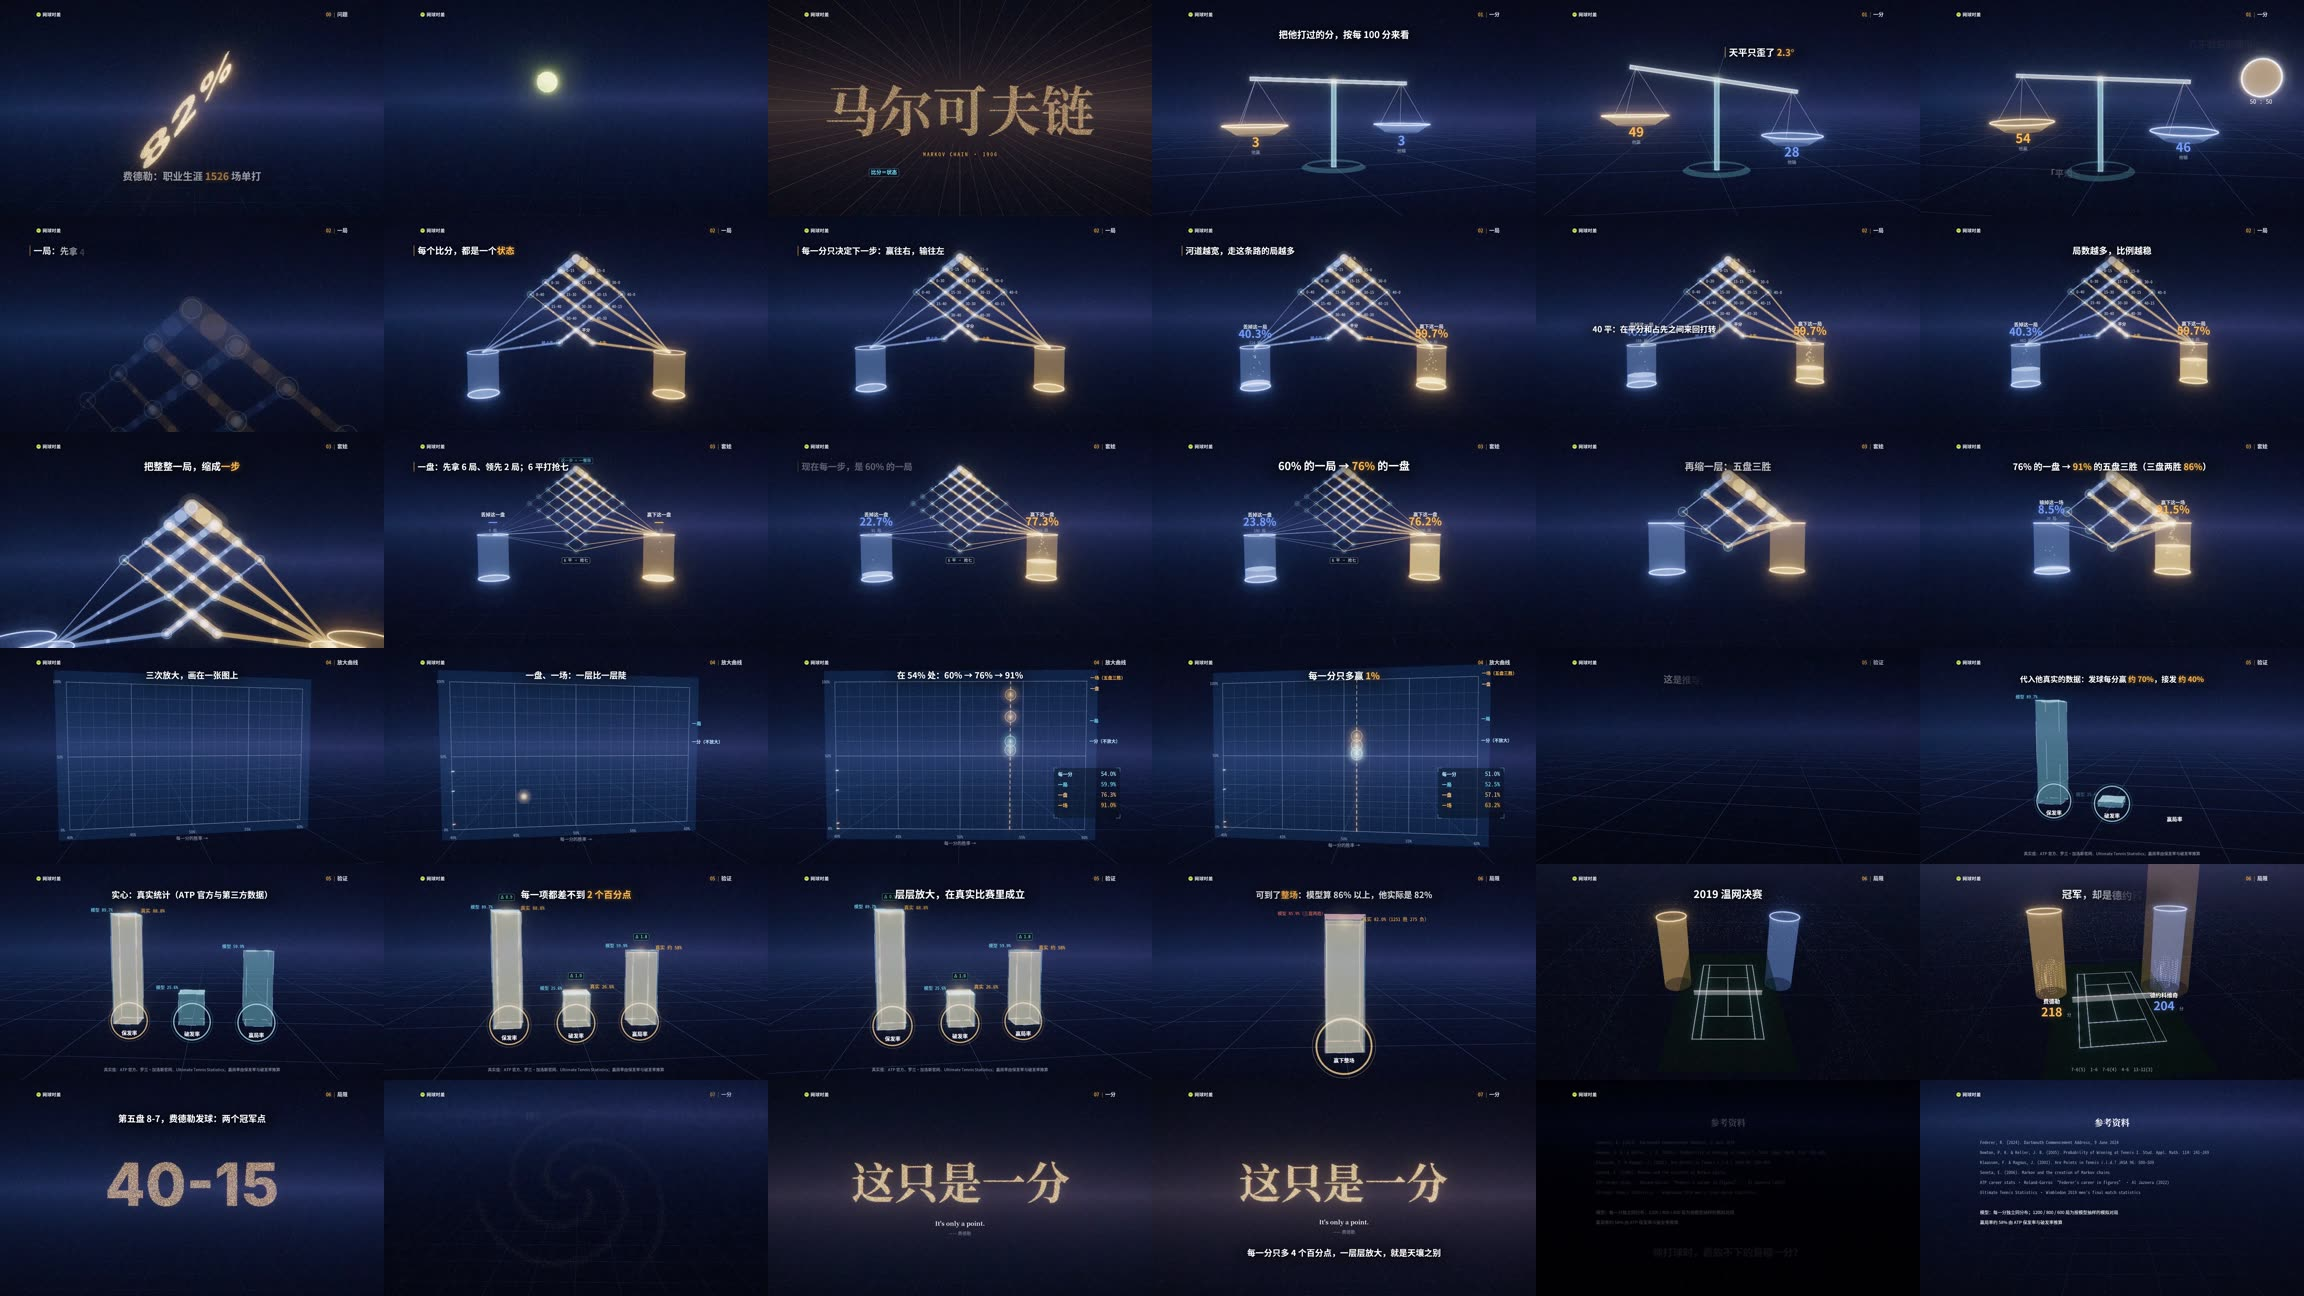
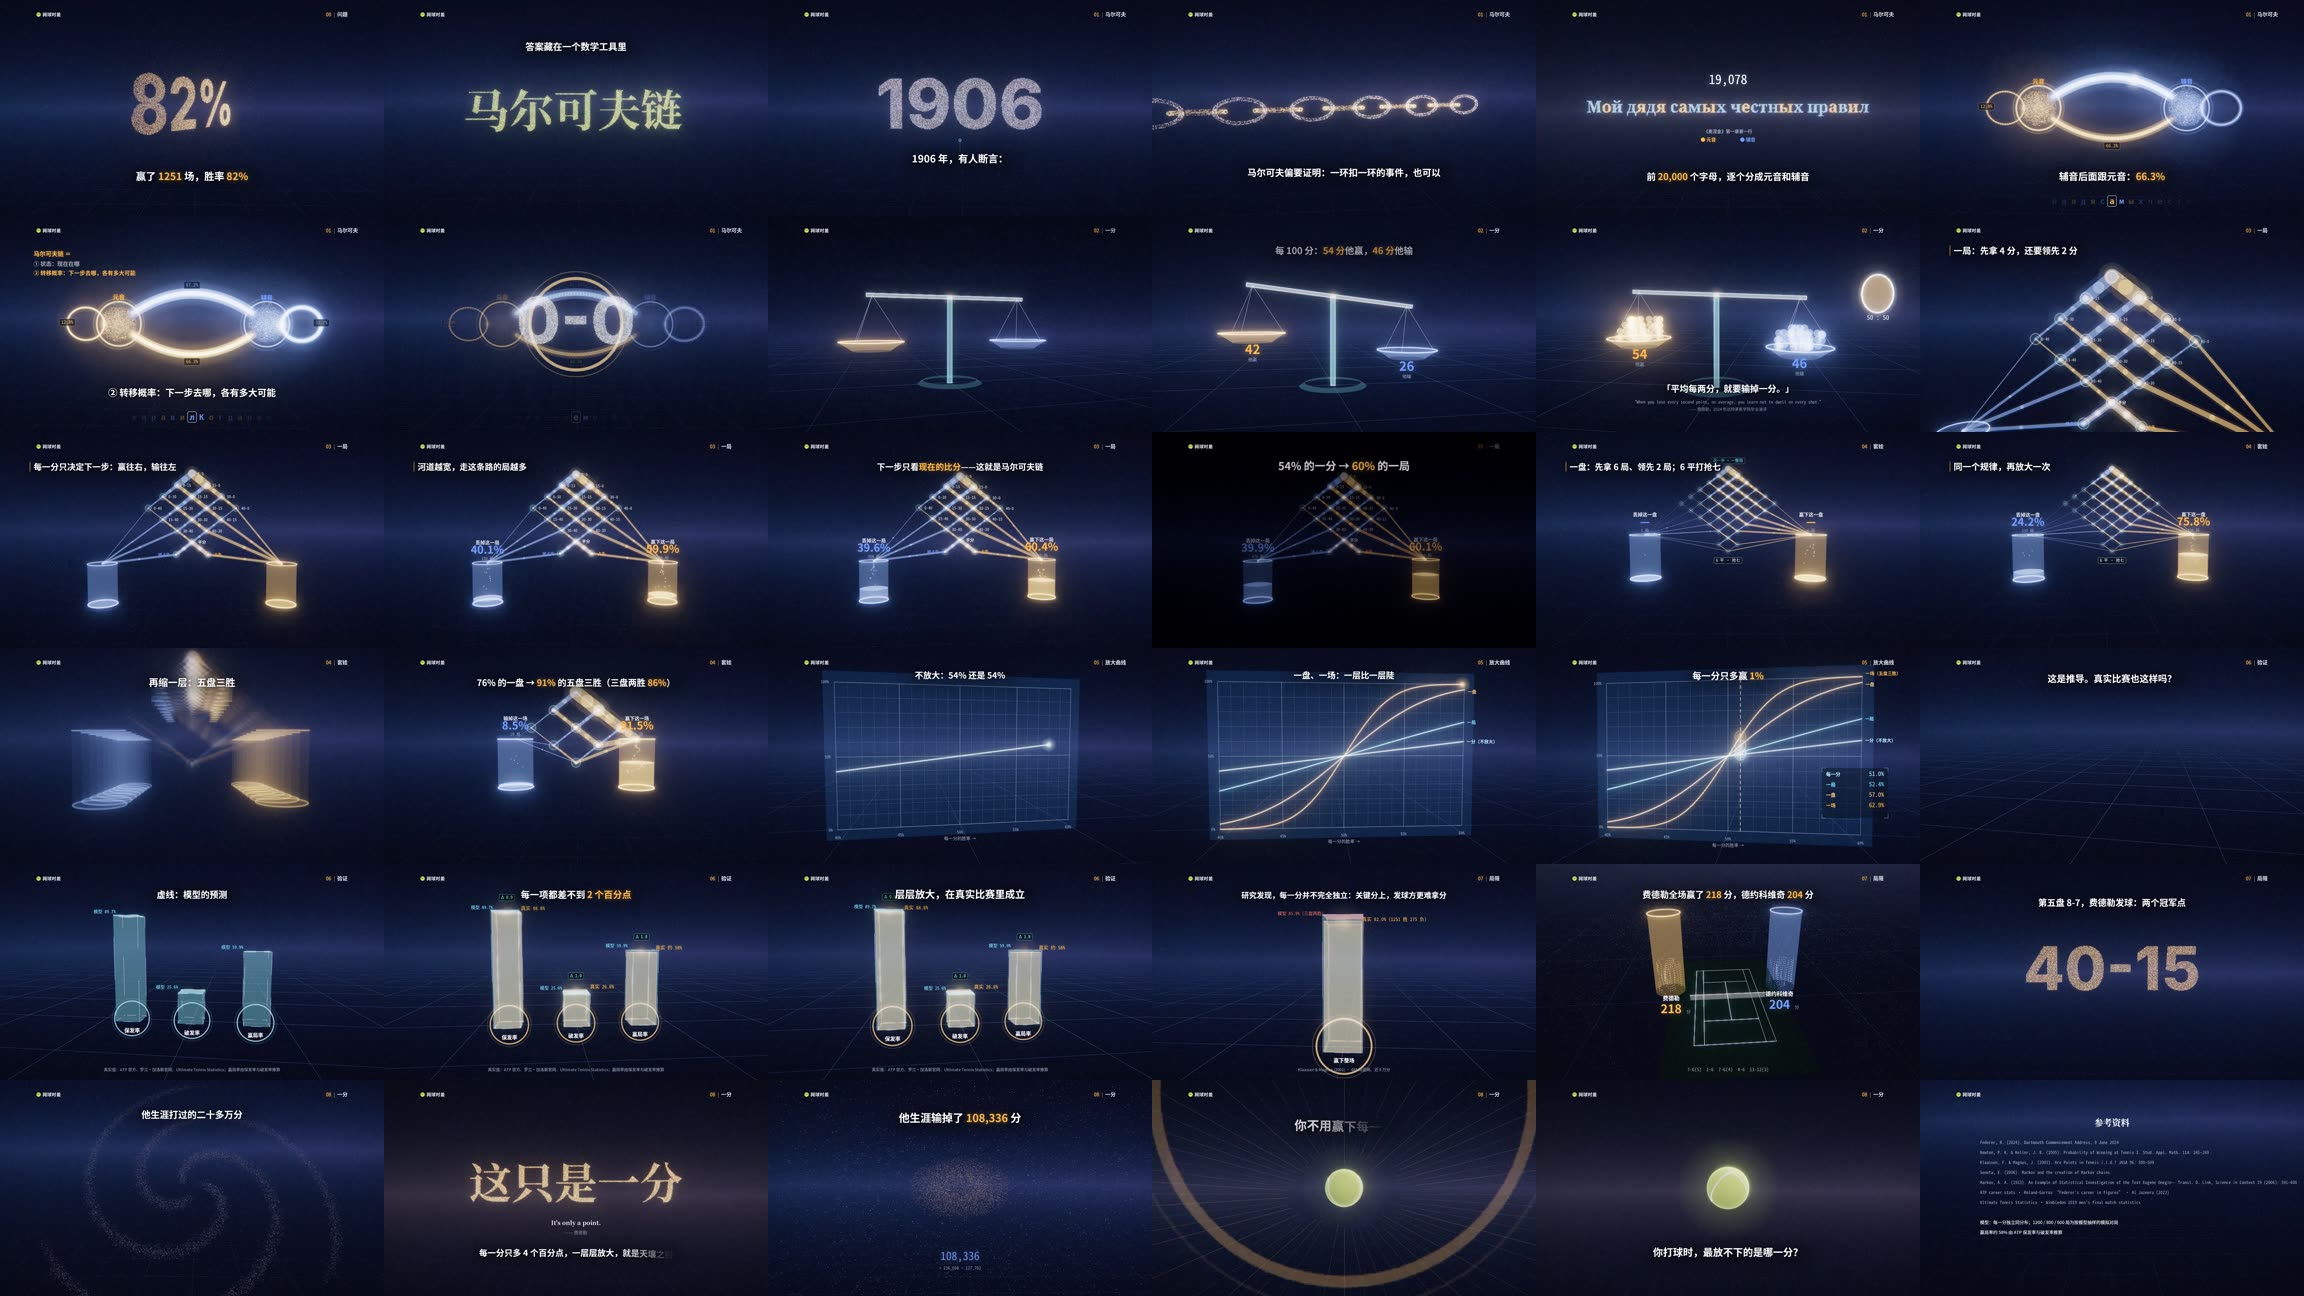
vibetennis EP04 改版出片（中文版）：补马尔可夫链介绍与片尾金句，修 S 曲线
- 中文版 246.3 s，QC 0 项不合格，-14.9 LUFS，推送版 193.5 MB；Release 附件已按登记的旧 sha256 替换
- 英文版文案压到 1000 字内（英文版成片走下一个 PR，免得一次合并带两条被自动推送拒发）

Claude-Session: https://claude.ai/code/session_011V3sK5yxYXvgeHo64wnqUL

diff --git a/output/2026-11-01/vibetennis/vibetennis-federer-54-percent-2026/copy.html b/output/2026-11-01/vibetennis/vibetennis-federer-54-percent-2026/copy.html
@@ -250,7 +250,11 @@ textarea { display: block; width: 100%; resize: vertical; border: 1px solid var(
 
 费德勒职业生涯打了1526场单打，赢了1251场，胜率82%。可每一分，他只赢了54%——他自己在2024年达特茅斯学院的毕业演讲里说过：平均每两分，就要输掉一分。
 
-只比一半多一点，为什么能赢下八成多的比赛？答案是网球的计分：它是一条马尔可夫链。比分是状态，每一分只决定下一步往哪走，一层层把微小的优势放大：
+答案是一条马尔可夫链。1906年，有人断言只有互不相干的事件，长期平均才会稳定；俄国数学家马尔可夫偏要证明，一环扣一环的事件也可以。1913年，他把普希金《叶甫盖尼·奥涅金》的前20000个字母分成元音和辅音：元音后面再跟元音只有12.8%，辅音后面跟元音却有66.3%。下一个字母，只取决于眼前这一个。
+
+马尔可夫链就三样东西：状态（现在在哪）、转移概率（下一步去哪、各有多大可能），以及只看现在——之前怎么走到这儿的，一概不管。
+
+网球的比分正是这样一条链：比分是状态，每一分就是一次转移，一层层把微小的优势放大：
 每一分赢54% → 一局赢60% → 一盘赢76% → 五盘三胜赢91%（三盘两胜86%）。
 每一分只多赢1%，五盘三胜的胜率就从50%跳到63%。
 
@@ -258,7 +262,7 @@ textarea { display: block; width: 100%; resize: vertical; border: 1px solid var(
 
 但模型也有边界：到了整场，模型算86%以上，他实际82%。研究发现每一分并不完全独立，关键分上发球方更难拿分。2019年温网决赛，费德勒全场多赢了14分，第五盘8-7、40-15握着两个冠军点，还是输了。
 
-这只是一分。
+他生涯输掉了108336分。可每一局都从0-0重新开始，上一分不会跟到下一分。你不用赢下每一分，只要输掉一分之后，还能打好下一分。
 
 你打球时，最放不下的是哪一分？
 
